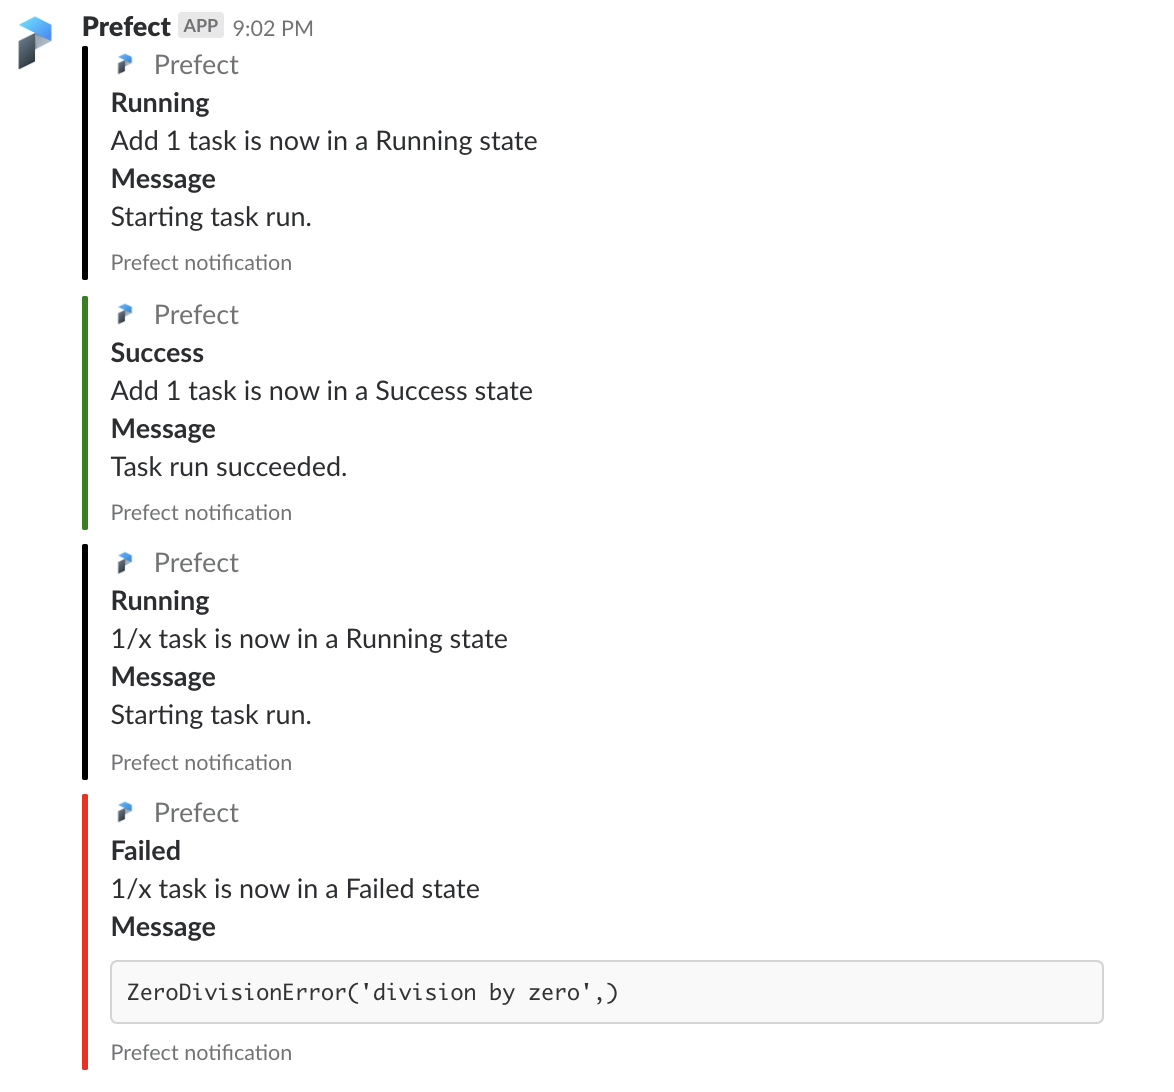
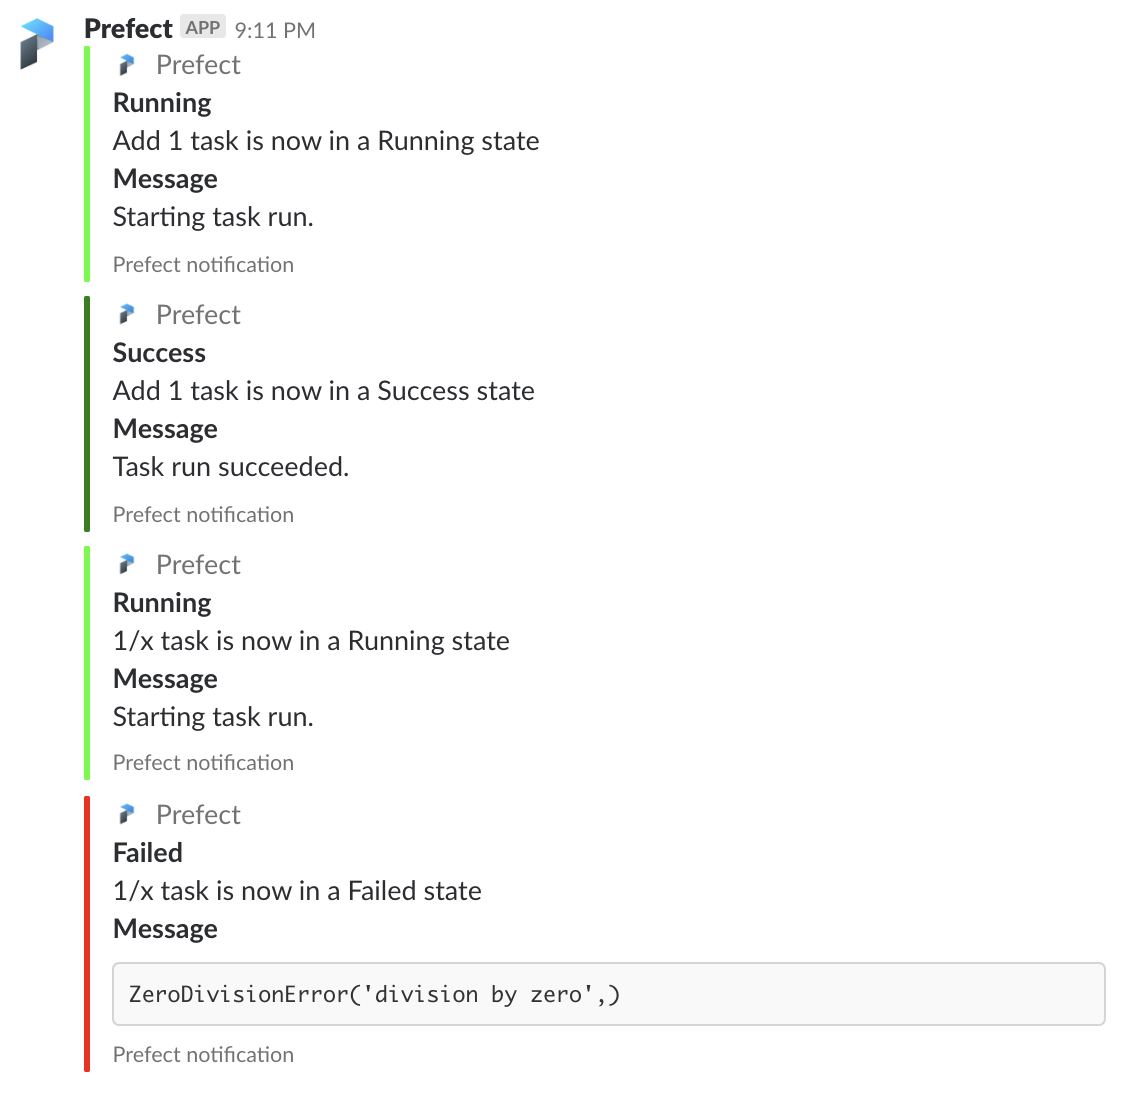
Begin the color refactor

Changed region(s): [[0.0, 0.0, 0.9146, 0.9963]]

diff --git a/src/prefect/engine/state.py b/src/prefect/engine/state.py
@@ -46,6 +46,8 @@ class State(Serializable):
             state, which could be an `Exception` (or [`Signal`](signals.html)) that caused it.
     """
 
+    color = "#000000"
+
     def __init__(self, result: Any = None, message: MessageType = None) -> None:
         self.result = result
         self.message = message
@@ -144,6 +146,8 @@ class Pending(State):
         keys to values.  Used / set if the Task requires Retries.
     """
 
+    color = "#d3d3d3"
+
     def __init__(
         self,
         result: Any = None,
@@ -170,6 +174,8 @@ class CachedState(Pending):
         - cached_result_expiration (datetime): The time at which this cache
             expires and can no longer be used. Defaults to `None`
     """
+
+    color = "#ffa500"
 
     def __init__(
         self,
@@ -199,6 +205,8 @@ class Scheduled(Pending):
             keys to values.  Used / set if the Task requires Retries.
     """
 
+    color = "#b0c4de"
+
     def __init__(
         self,
         result: Any = None,
@@ -223,6 +231,8 @@ class Retrying(Scheduled):
             keys to values.  Used / set if the Task requires Retries.
     """
 
+    color = "#FFFF00"
+
 
 # -------------------------------------------------------------------
 # Running States
@@ -232,6 +242,8 @@ class Retrying(Scheduled):
 class Running(State):
     """Base running state. Indicates that a task is currently running."""
 
+    color = "#00FF00"
+
 
 # -------------------------------------------------------------------
 # Finished States
@@ -240,6 +252,8 @@ class Running(State):
 
 class Finished(State):
     """Base finished state. Indicates when a class has reached some form of completion."""
+
+    color = "#BA55D3"
 
 
 class Success(Finished):
@@ -254,6 +268,8 @@ class Success(Finished):
             runs of this task (if the cache is still valid); this attribute should only be set by the task runner.
     """
 
+    color = "#008000"
+
     def __init__(
         self,
         result: Any = None,
@@ -267,13 +283,19 @@ class Success(Finished):
 class Failed(Finished):
     """Finished state indicating failure"""
 
+    color = "#FF0000"
+
 
 class TriggerFailed(Failed):
     """Finished state indicating failure due to trigger"""
 
+    color = "#F08080"
+
 
 class Skipped(Success):
     """Finished state indicating success on account of being skipped"""
+
+    color = "#F0FFF0"
 
     def __init__(self, result: Any = None, message: MessageType = None) -> None:
         super().__init__(result=result, message=message)

diff --git a/src/prefect/utilities/notifications.py b/src/prefect/utilities/notifications.py
@@ -9,22 +9,6 @@ from toolz import curry
 from prefect.client import Secret
 
 
-def get_color(state) -> str:
-    colors = {
-        "Retrying": "#FFFF00",
-        "CachedState": "#ffa500",
-        "Pending": "#d3d3d3",
-        "Scheduled": "#b0c4de",
-        "Skipped": "#f0fff0",
-        "Success": "#008000",
-        "Finished": "#ba55d3",
-        "Failed": "#FF0000",
-        "TriggerFailed": "#F08080",
-        "Unknown": "#000000",
-    }
-    return colors.get(type(state).__name__, "#000000")
-
-
 def slack_message_formatter(tracked_obj, state):
     # see https://api.slack.com/docs/message-attachments
     fields = []
@@ -39,7 +23,7 @@ def slack_message_formatter(tracked_obj, state):
         "attachments": [
             {
                 "fallback": "State change notification",
-                "color": get_color(state),
+                "color": state.color,
                 "author_name": "Prefect",
                 "author_link": "https://www.prefect.io/",
                 "author_icon": "https://emoji.slack-edge.com/TAN3D79AL/prefect/2497370f58500a5a.png",

diff --git a/tests/engine/test_state.py b/tests/engine/test_state.py
@@ -81,6 +81,11 @@ def test_timestamp_is_serialized():
     assert state.timestamp == deserialized_state.timestamp
 
 
+@pytest.mark.parametrize("cls", all_states)
+def test_states_have_color(cls):
+    assert cls.color.startswith("#")
+
+
 def test_serialize():
     now = datetime.datetime.utcnow()
     cached = CachedState(
@@ -92,6 +97,7 @@ def test_serialize():
     j = json.dumps(state)
     new_state = json.loads(j)
     assert isinstance(new_state, Success)
+    assert new_state.color == state.color
     assert new_state.result == state.result
     assert new_state.timestamp == state.timestamp
     assert isinstance(new_state.cached, CachedState)
